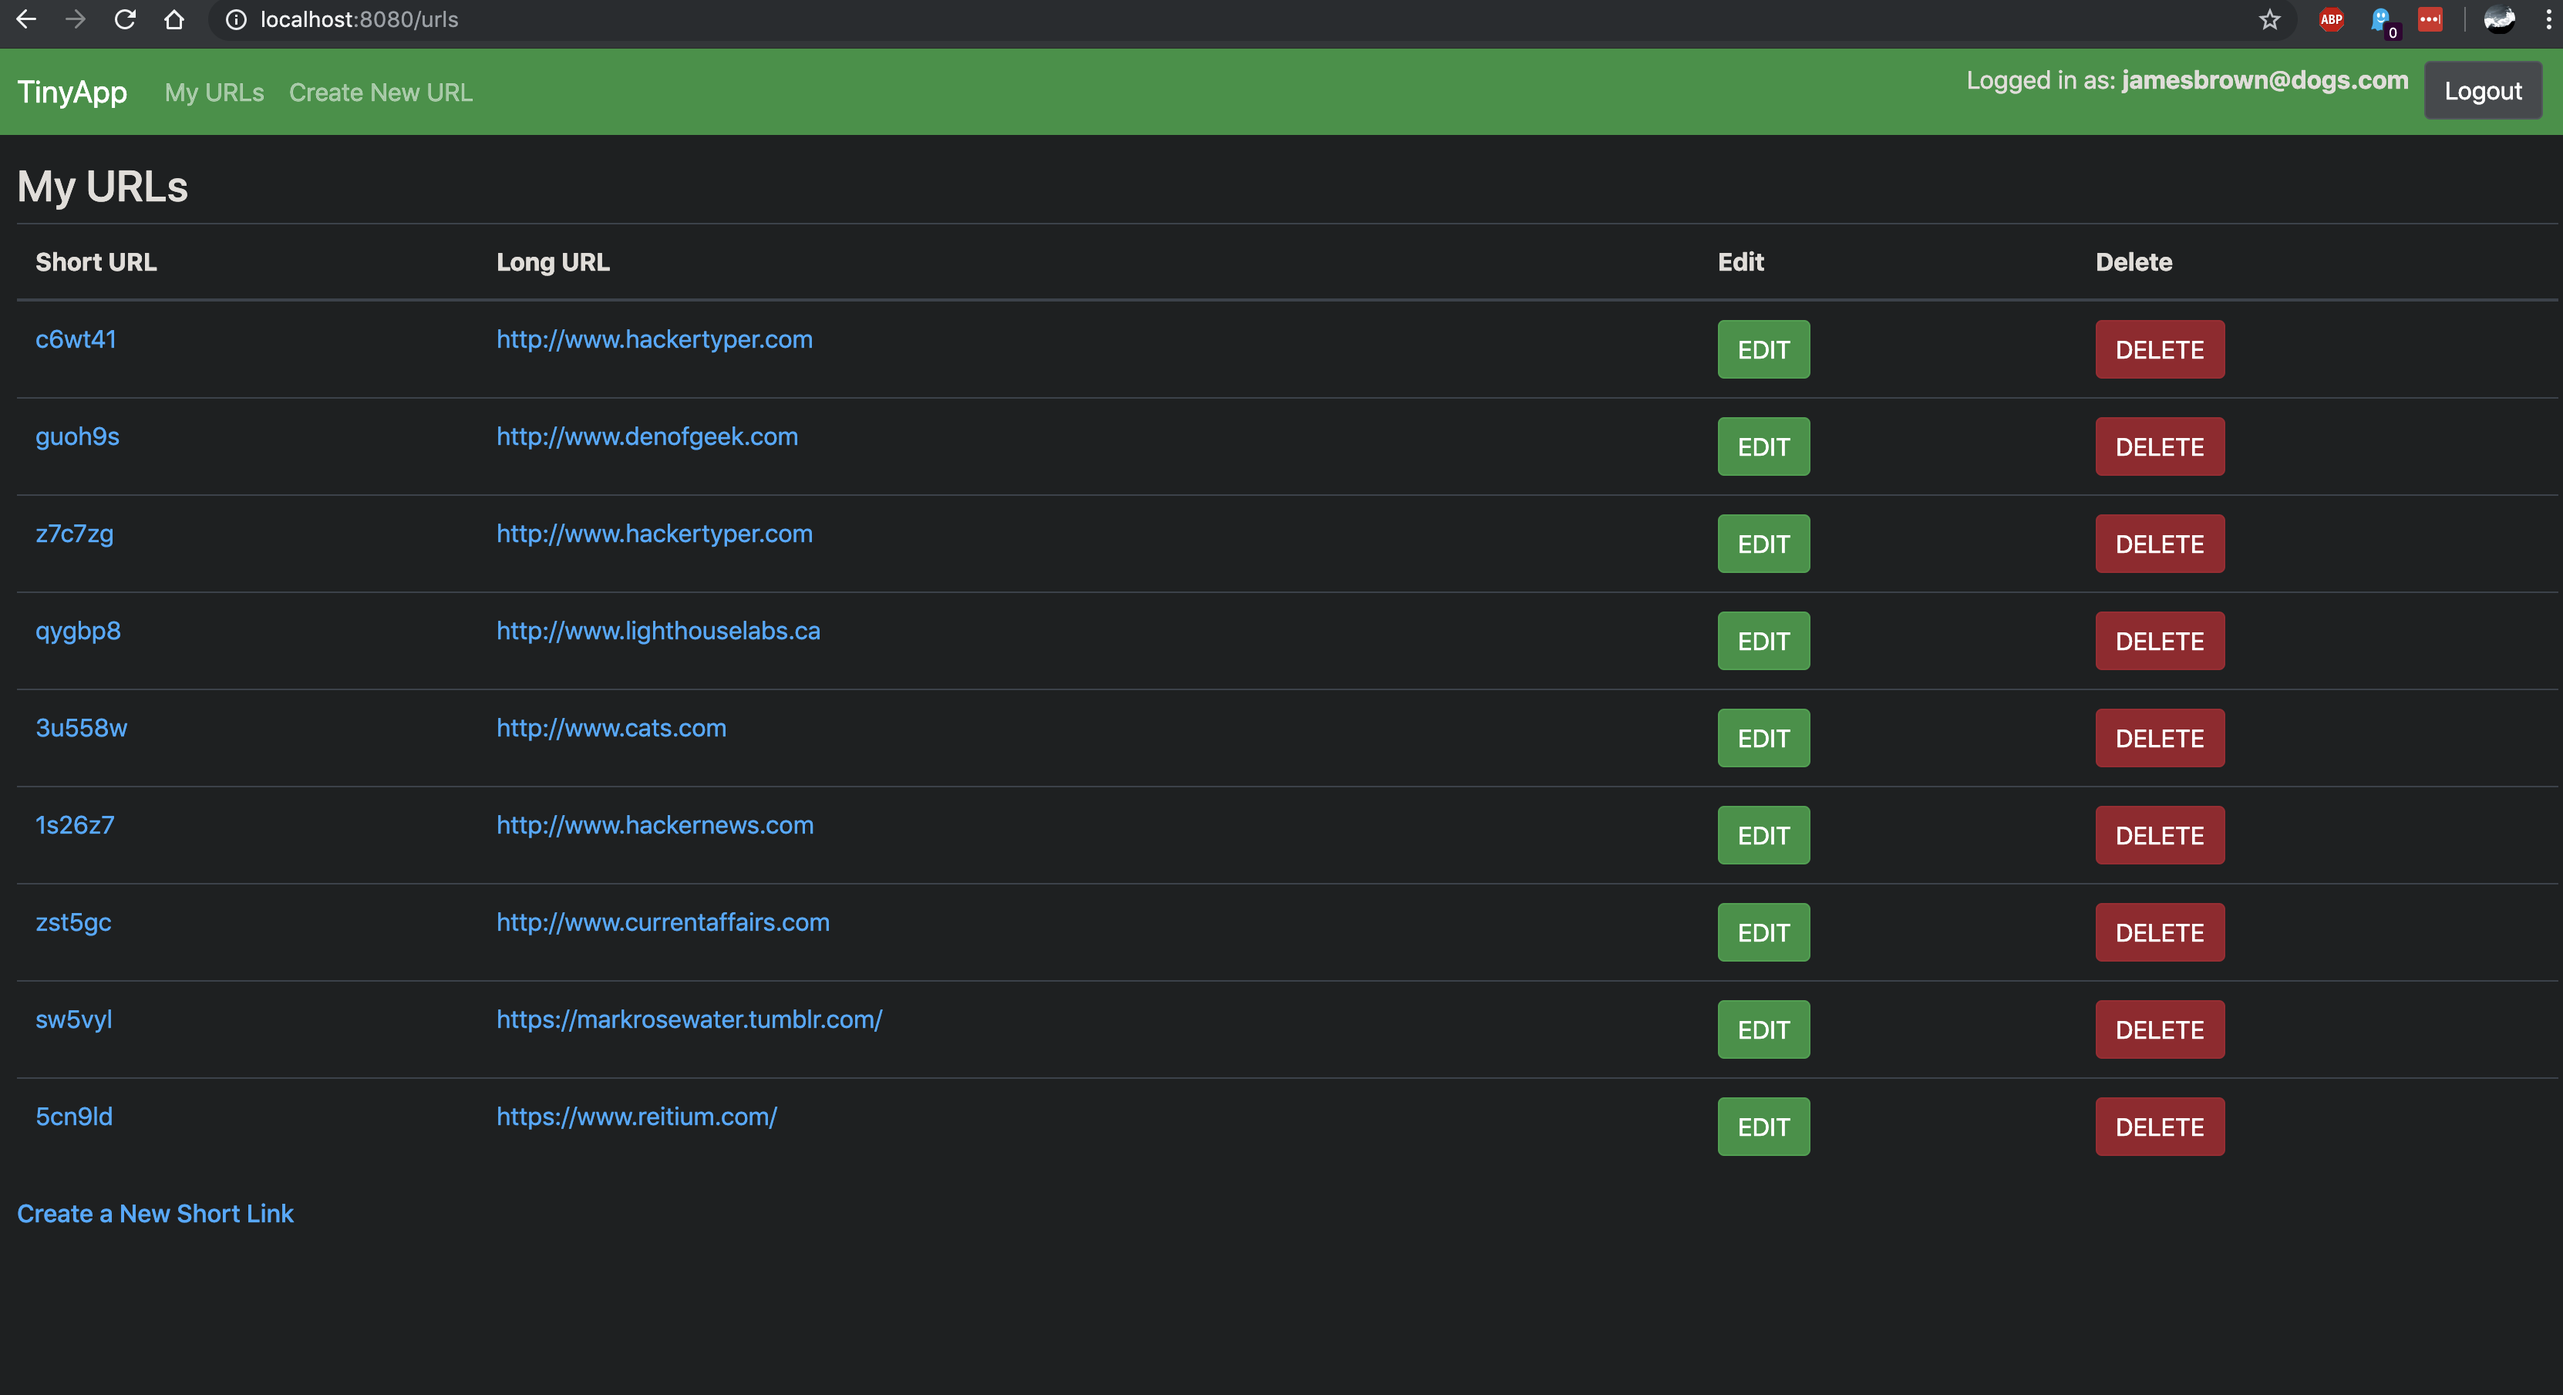
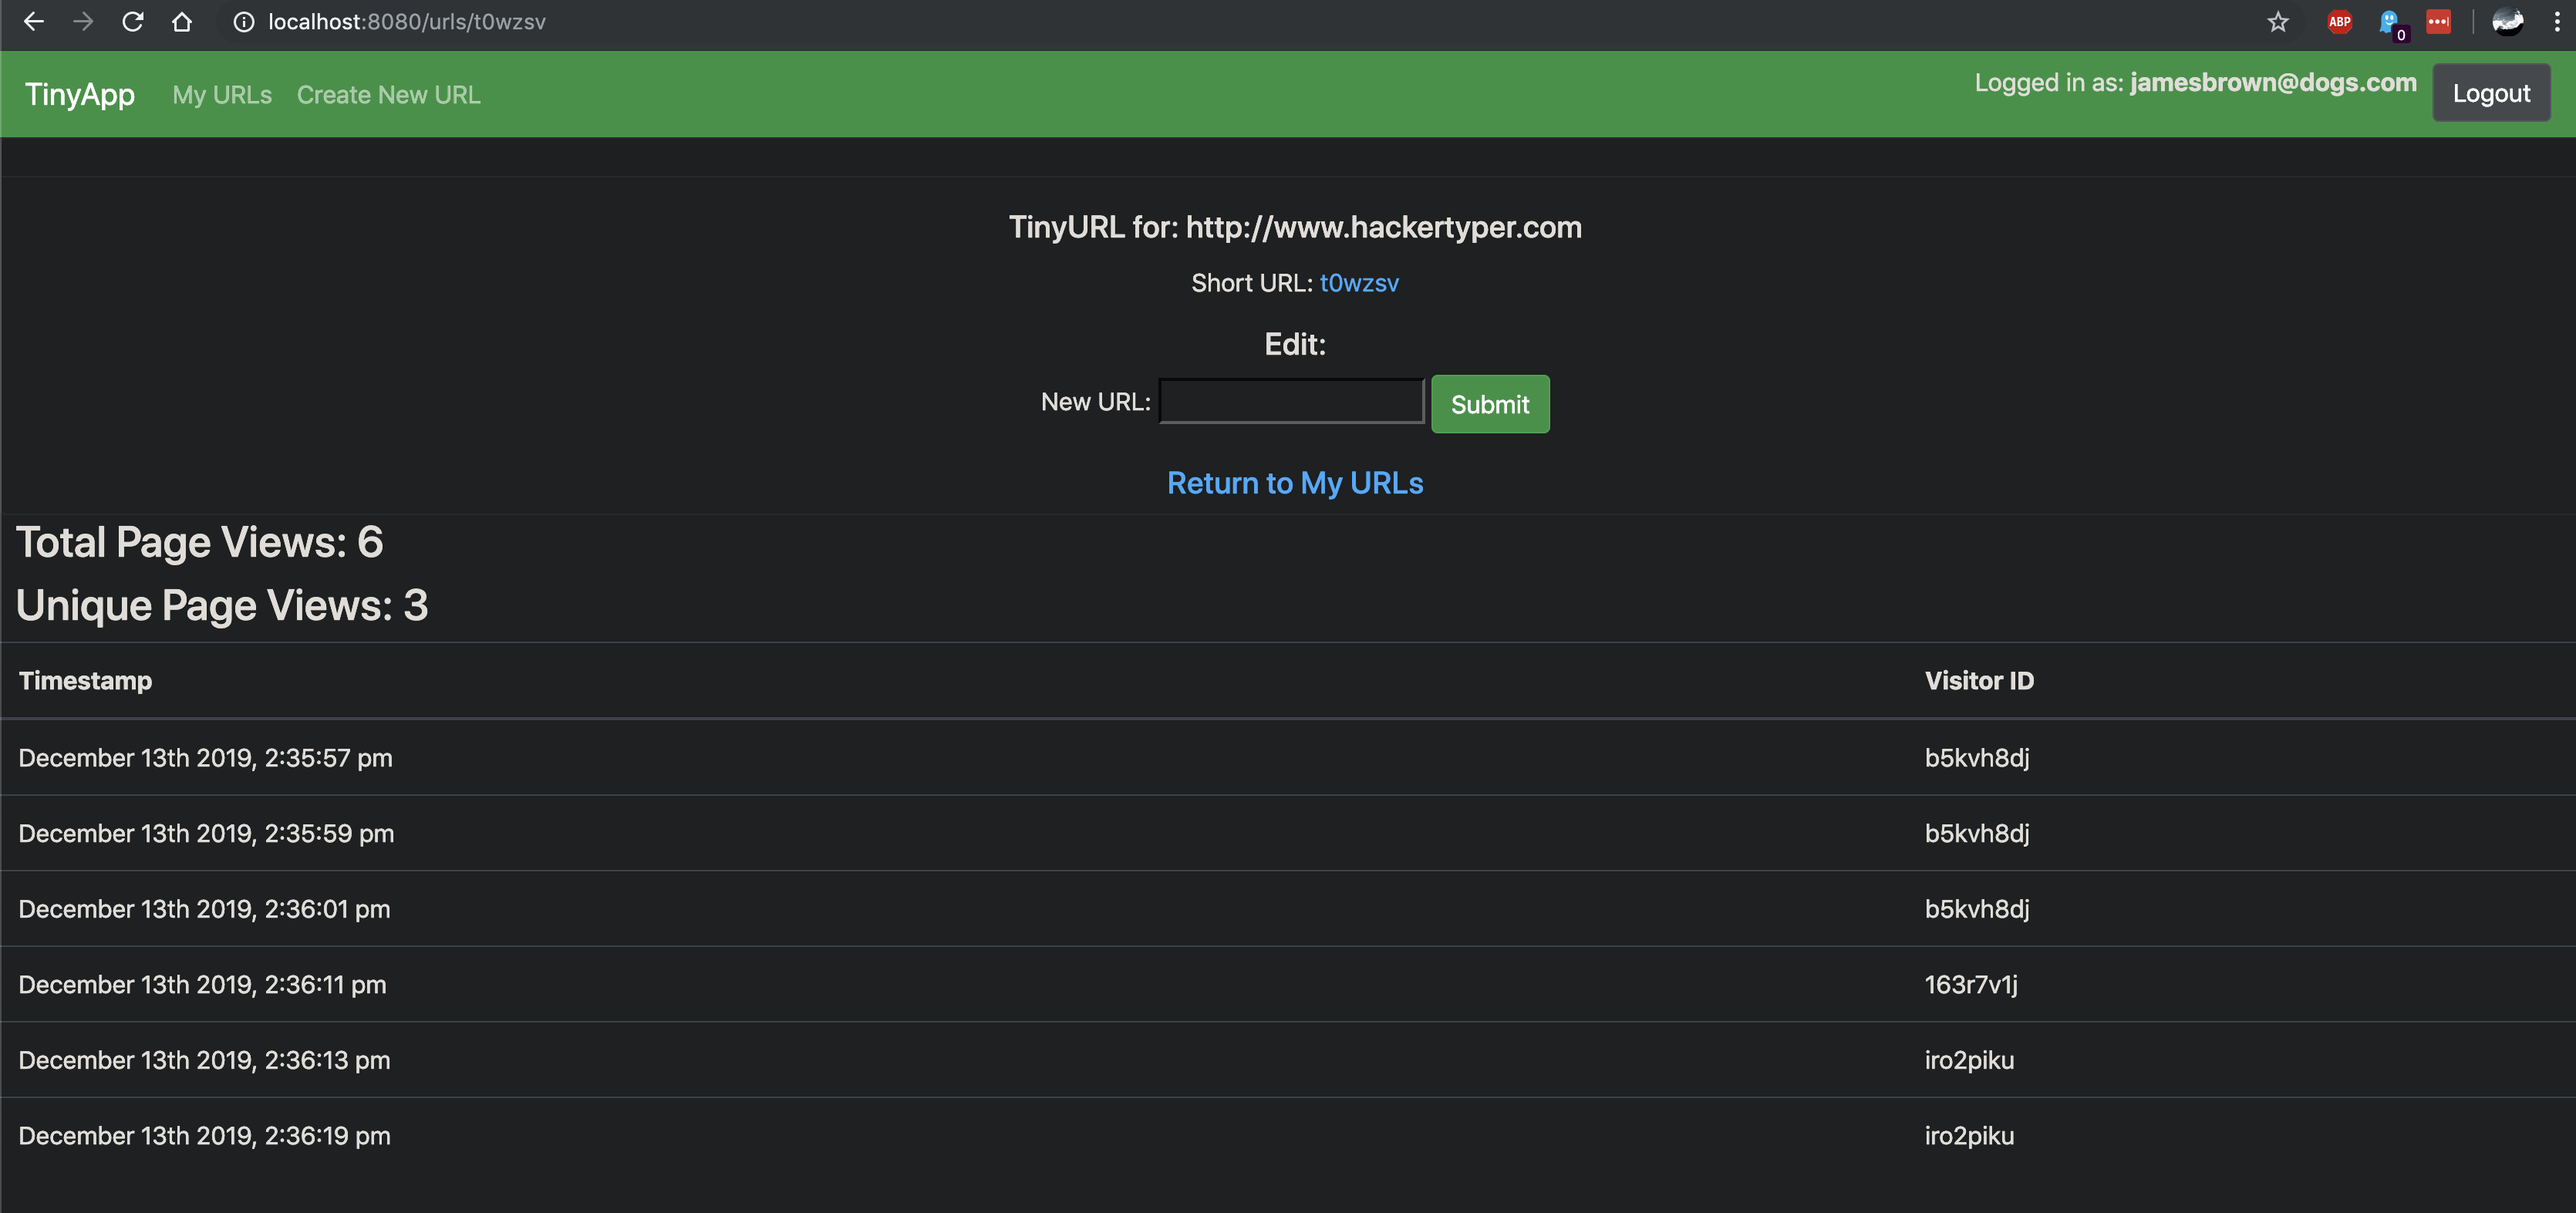
Added Date Created, Page Views and Unique Page Views to main URL screen and updated Screenshots.

diff --git a/express-server.js b/express-server.js
@@ -139,9 +139,11 @@ app.get("/u/:shortURL", (req, res) => {
 // POST REQUESTS
 app.post("/urls", (req, res) => {
   const shortURL = generateShortURL();
+  const dateCreated = generateTimestamp();
   urlDatabase[shortURL] = {};
   urlDatabase[shortURL].longURL = req.body.longURL;
   urlDatabase[shortURL].userID = req.session.userID;
+  urlDatabase[shortURL].dateCreated = dateCreated;
   urlDatabase[shortURL].pageViews = 0;
   urlDatabase[shortURL].uniquePageViews = 0;
   urlDatabase[shortURL].timestamps = [];
